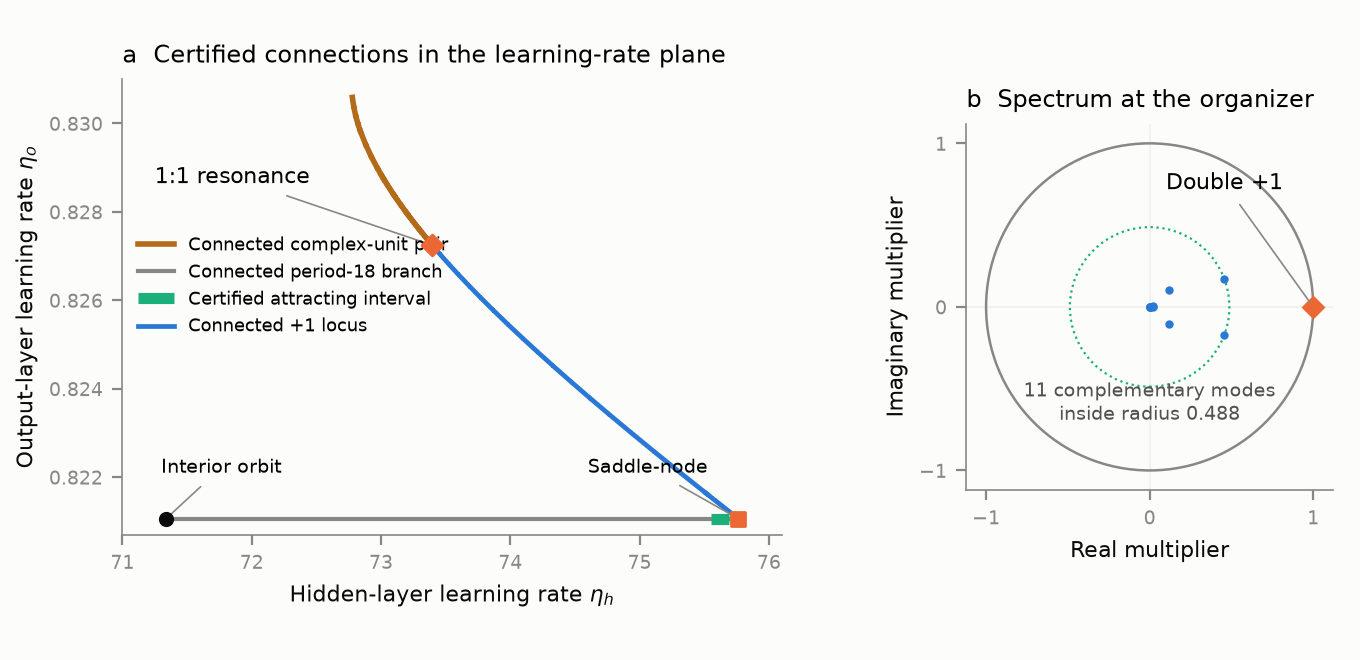
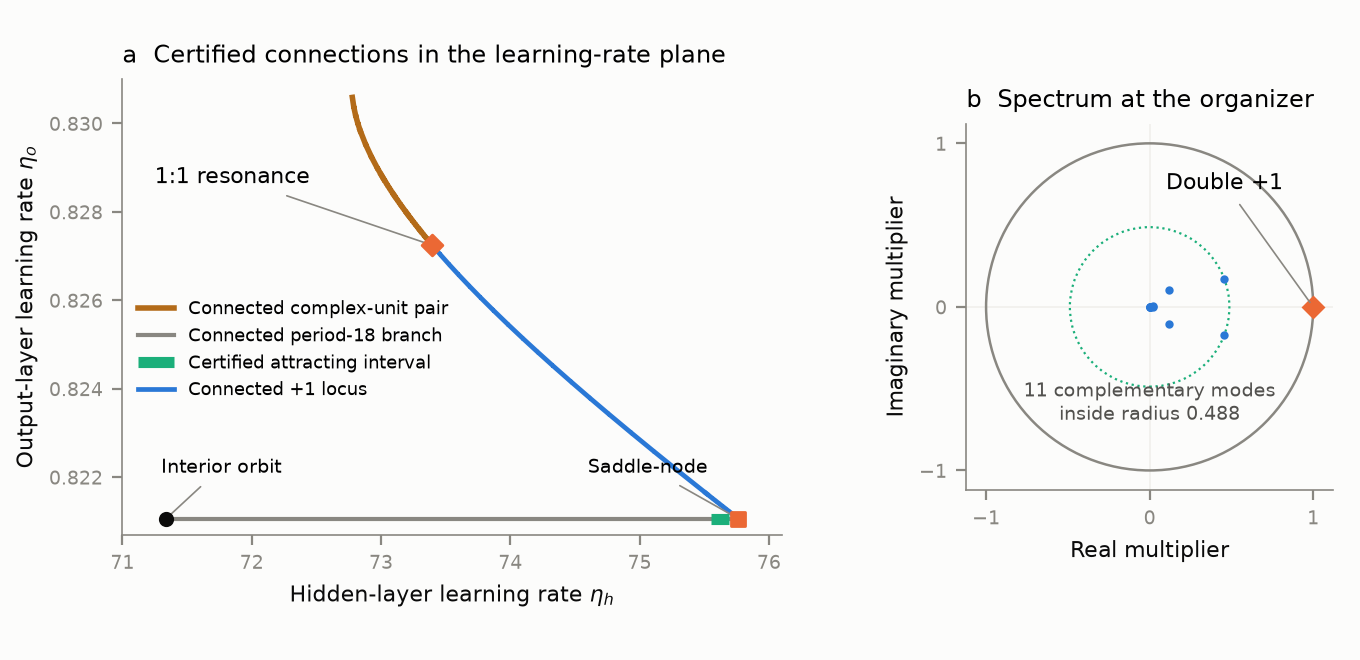
Keep boundary figure labels clear of certified organizer

Changed region(s): [[0.0926, 0.3636, 0.3397, 0.6061]]

diff --git a/paper/gd-route/figures/f11_connected_boundary.py b/paper/gd-route/figures/f11_connected_boundary.py
@@ -153,7 +153,7 @@ def main():
     ax.annotate('Interior orbit',xy=(d['center'],d['output']),xytext=(71.3,.8221),fontsize=7,arrowprops={'arrowstyle':'-','lw':.6,'color':c.MUTED})
     ax.annotate('Saddle-node',xy=(fold,d['output']),xytext=(74.6,.8221),fontsize=7,arrowprops={'arrowstyle':'-','lw':.6,'color':c.MUTED})
     ax.plot([],[],color=c.FOLD,lw=1.7,label=r'Connected $+1$ locus')
-    ax.set(xlim=(71,76.1),ylim=(.8207,.8310),xlabel=r'Hidden-layer learning rate $\eta_h$',ylabel=r'Output-layer learning rate $\eta_o$');ax.set_title('a  Certified connections in the learning-rate plane');ax.legend(loc='upper left',bbox_to_anchor=(0,.69),frameon=False,fontsize=6.4)
+    ax.set(xlim=(71,76.1),ylim=(.8207,.8310),xlabel=r'Hidden-layer learning rate $\eta_h$',ylabel=r'Output-layer learning rate $\eta_o$');ax.set_title('a  Certified connections in the learning-rate plane');ax.legend(loc='upper left',bbox_to_anchor=(0,.55),frameon=False,fontsize=6.4)
     bx.add_patch(Circle((0,0),1,fill=False,lw=.9,color=c.MUTED));bx.add_patch(Circle((0,0),d['bound'],fill=False,lw=.8,ls=':',color=c.NS))
     for real,imag,radius in d['discs']:
         bx.add_patch(Circle((real,imag),radius,facecolor=c.FOLD,edgecolor=c.FOLD,lw=.5));bx.plot(real,imag,'.',ms=4,color=c.FOLD)
